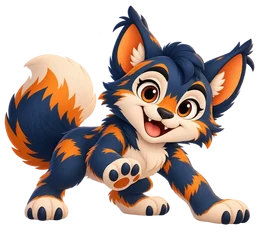
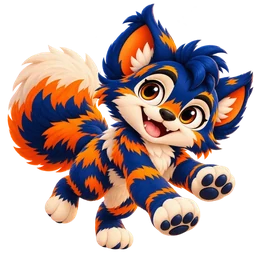
Mascottes: definitieve set van Novi, Varo en Vera (30 WebP's)
- De 30 geüploade PNG's (1254x1254, echte alfa) zijn omgezet naar WebP:
  proportioneel naar 512x512 met voorvermenigvuldigde alfa (geen randen),
  kwaliteit 88, methode 6, alfakwaliteit 100. Elk bestand gecontroleerd
  (VP8X met alfa, 512x512, transparante hoeken, op licht en donker
  vergeleken met de bron). PNG's daarna verwijderd; de vorige Novi-set is
  vervangen.
- Register: alle tien states voor novi, varo en vera (512x512), plus
  PERSONAL_MASCOTS, PersonalMascotCharacter, DEFAULT_PERSONAL_MASCOT (novi)
  en isPersonalMascot. family blijft apart.
- Figma-kopieën (512 byte-identiek, 256 Lanczos) nu voor alle drie.
- test:mascots: compleetheid en alfa voor alle 30, de gidsen, family,
  een ongeldige combinatie als typefout, Figma-kopieën voor alle drie.

Claude-Session: https://claude.ai/code/session_01LAVxxe4dXRHxJ3ioMa5XhR

diff --git a/tests/mascots.test.ts b/tests/mascots.test.ts
@@ -3,11 +3,26 @@ import assert from "node:assert/strict";
 import { existsSync, readdirSync, readFileSync } from "node:fs";
 import path from "node:path";
 import { fileURLToPath } from "node:url";
-import { MASCOT_CHARACTERS, MASCOT_STATES, mascotStates, mascotVariantCount, registeredStaticMascots, staticMascotAsset, staticMascotPath } from "../src/lib/mascots";
+import {
+  DEFAULT_PERSONAL_MASCOT,
+  MASCOT_CHARACTERS,
+  MASCOT_STATES,
+  PERSONAL_MASCOTS,
+  isPersonalMascot,
+  mascotStates,
+  mascotVariantCount,
+  registeredStaticMascots,
+  staticMascotAsset,
+  staticMascotPath,
+} from "../src/lib/mascots";
+
+// Een combinatie die niet bestaat, is al een typefout (tsc controleert deze map ook).
+// @ts-expect-error family heeft geen greeting
+staticMascotPath("family", "greeting");
 
 const PUBLIC = path.join(path.dirname(fileURLToPath(import.meta.url)), "..", "public");
 const STATIC_DIR = path.join(PUBLIC, "mascots", "static");
-const FIGMA_NOVI_DIR = path.join(PUBLIC, "mascots", "figma", "novi");
+const FIGMA_DIR = path.join(PUBLIC, "mascots", "figma");
 
 // Breedte en hoogte uit de WebP-header (VP8X, VP8L of VP8), zodat de
 // geregistreerde afmetingen altijd met het echte bestand overeenkomen.
@@ -50,14 +65,32 @@ test("elk bestand in public/mascots/static volgt de naamconventie", () => {
   }
 });
 
-test("zonder bestand is er geen asset (en dus geen vervanger)", () => {
-  // Varo en Vera hebben in deze fase bewust nog niets.
-  for (const state of MASCOT_STATES) {
-    assert.equal(staticMascotAsset("vera", state), null);
-    assert.equal(staticMascotAsset("varo", state), null);
+test("Novi, Varo en Vera: alle tien states geregistreerd als echte WebP met alfa", () => {
+  for (const character of PERSONAL_MASCOTS) {
+    assert.deepEqual([...mascotStates(character)].sort(), [...MASCOT_STATES].sort());
+    for (const state of MASCOT_STATES) {
+      const asset = staticMascotAsset(character, state);
+      assert.ok(asset, `${character}-${state}: niet geregistreerd`);
+      const file = path.join(PUBLIC, asset.src);
+      const b = readFileSync(file);
+      assert.equal(b.toString("ascii", 12, 16), "VP8X", `${character}-${state}: geen uitgebreide WebP`);
+      assert.ok((b[20] & 0x10) !== 0, `${character}-${state}: WebP zonder alfakanaal`);
+      assert.deepEqual(webpSize(file), { width: 512, height: 512 }, `${character}-${state}: verwacht 512x512`);
+    }
   }
+});
+
+test("persoonlijke gids: alleen Novi, Varo en Vera; family blijft apart", () => {
+  assert.deepEqual([...PERSONAL_MASCOTS], ["novi", "varo", "vera"]);
+  assert.equal(DEFAULT_PERSONAL_MASCOT, "novi");
+  for (const ok of ["novi", "varo", "vera"]) assert.equal(isPersonalMascot(ok), true);
+  for (const wrong of ["family", "NOVI", "", null, undefined, 3, "lisa"]) assert.equal(isPersonalMascot(wrong), false);
+  // family kent geen persoonlijke states, en geen andere dan welcome/celebrate.
+  assert.deepEqual([...mascotStates("family")], ["welcome", "celebrate"]);
+  assert.ok(!(mascotStates("family") as readonly string[]).includes("greeting"));
+  assert.ok(staticMascotAsset("family", "welcome"), "family-welcome blijft geldig");
   assert.equal(staticMascotAsset("family", "celebrate"), null, "family-celebrate is gereserveerd en heeft nog geen asset");
-  assert.equal(staticMascotPath("novi", "greeting"), "/mascots/static/novi/novi-greeting.webp");
+  assert.equal(staticMascotPath("varo", "greeting"), "/mascots/static/varo/varo-greeting.webp");
   assert.equal(staticMascotPath("family", "welcome", 2), "/mascots/static/family/family-welcome-2.webp");
 });
 
@@ -71,23 +104,23 @@ test("varianten: elke variant een eigen bestand, en een teller loopt rond", () =
   assert.equal(staticMascotAsset("novi", "greeting", 2)?.src, "/mascots/static/novi/novi-greeting.webp", "zonder varianten telt het nummer niet");
 });
 
-test("Figma-kopieën van alle Novi-states volgen bron, formaat en verhouding", () => {
-  const expectedFiles = MASCOT_STATES.map((state) => `novi-${state}.webp`).sort();
-  assert.deepEqual(readdirSync(path.join(FIGMA_NOVI_DIR, "512")).sort(), expectedFiles);
-  assert.deepEqual(readdirSync(path.join(FIGMA_NOVI_DIR, "256")).sort(), expectedFiles);
+test("Figma-kopieën van alle states van Novi, Varo en Vera volgen bron, formaat en verhouding", () => {
+  for (const character of PERSONAL_MASCOTS) {
+    const dir = path.join(FIGMA_DIR, character);
+    const expectedFiles = MASCOT_STATES.map((state) => `${character}-${state}.webp`).sort();
+    assert.deepEqual(readdirSync(path.join(dir, "512")).sort(), expectedFiles);
+    assert.deepEqual(readdirSync(path.join(dir, "256")).sort(), expectedFiles);
 
-  for (const state of MASCOT_STATES) {
-    const source = path.join(STATIC_DIR, "novi", `novi-${state}.webp`);
-    const copy512 = path.join(FIGMA_NOVI_DIR, "512", `novi-${state}.webp`);
-    const copy256 = path.join(FIGMA_NOVI_DIR, "256", `novi-${state}.webp`);
-    const sourceSize = webpSize(source);
-    const size512 = webpSize(copy512);
-    const size256 = webpSize(copy256);
+    for (const state of MASCOT_STATES) {
+      const source = path.join(STATIC_DIR, character, `${character}-${state}.webp`);
+      const copy512 = path.join(dir, "512", `${character}-${state}.webp`);
+      const copy256 = path.join(dir, "256", `${character}-${state}.webp`);
+      const sourceSize = webpSize(source);
+      const size256 = webpSize(copy256);
 
-    assert.deepEqual(size512, sourceSize, `${state}: 512-kopie veranderde de canvasmaat`);
-    assert.deepEqual(readFileSync(copy512), readFileSync(source), `${state}: 512-kopie is niet byte-identiek aan productie`);
-    assert.equal(Math.max(size256.width, size256.height), 256, `${state}: 256-export heeft niet de bedoelde langste zijde`);
-    assert.equal(size256.width * sourceSize.height, size256.height * sourceSize.width, `${state}: 256-export veranderde de verhouding`);
-    assert.ok(size256.width <= sourceSize.width && size256.height <= sourceSize.height, `${state}: Figma-export is opgeschaald`);
+      assert.deepEqual(readFileSync(copy512), readFileSync(source), `${character}-${state}: 512-kopie is niet byte-identiek aan productie`);
+      assert.equal(Math.max(size256.width, size256.height), 256, `${character}-${state}: 256-export heeft niet de bedoelde langste zijde`);
+      assert.equal(size256.width * sourceSize.height, size256.height * sourceSize.width, `${character}-${state}: 256-export veranderde de verhouding`);
+    }
   }
 });

diff --git a/src/lib/mascots.ts b/src/lib/mascots.ts
@@ -45,6 +45,22 @@ interface MascotStatesByCharacter {
 /** De Versado-mascottes, plus "family" voor composities van de drie samen. */
 export type MascotCharacter = keyof MascotStatesByCharacter;
 
+/**
+ * De drie personages die een gebruiker als persoonlijke gids kan kiezen
+ * (User.companion). Elk heeft dezelfde tien states. "family" hoort hier
+ * bewust niet bij: de familie verschijnt alleen op gedeelde momenten.
+ */
+export const PERSONAL_MASCOTS = ["novi", "varo", "vera"] as const;
+
+export type PersonalMascotCharacter = (typeof PERSONAL_MASCOTS)[number];
+
+/** Gids voor wie (nog) niets koos: Novi was al de metgezel op de persoonlijke momenten. */
+export const DEFAULT_PERSONAL_MASCOT: PersonalMascotCharacter = "novi";
+
+export function isPersonalMascot(value: unknown): value is PersonalMascotCharacter {
+  return typeof value === "string" && (PERSONAL_MASCOTS as readonly string[]).includes(value);
+}
+
 export type MascotStateOf<C extends MascotCharacter> = MascotStatesByCharacter[C];
 
 /** Elke geldige combinatie van personage en state, als één union. */
@@ -96,24 +112,27 @@ interface RegisteredSize {
 //   greeting: { width: 512, height: 512 },
 // tests/mascots.test.ts controleert dat elk geregistreerd bestand bestaat,
 // dat de afmetingen kloppen en dat elk bestand in de map een geldige naam heeft.
+const SQUARE: RegisteredSize = { width: 512, height: 512 };
+const SQUARE_SET: Record<MascotState, RegisteredSize> = {
+  idle: SQUARE,
+  greeting: SQUARE,
+  thinking: SQUARE,
+  discovery: SQUARE,
+  reading: SQUARE,
+  playing: SQUARE,
+  success: SQUARE,
+  encourage: SQUARE,
+  celebrate: SQUARE,
+  sleep: SQUARE,
+};
+
 const STATIC_ASSETS: { [C in MascotCharacter]: Partial<Record<MascotStateOf<C>, RegisteredSize>> } = {
-  // Alle Novi-poses komen van hetzelfde canvas (1312x1199, verkleind naar
-  // 512 px breed), zodat Novi in elke state even groot is.
-  novi: {
-    idle: { width: 512, height: 468 },
-    greeting: { width: 512, height: 468 },
-    thinking: { width: 512, height: 468 },
-    discovery: { width: 512, height: 468 },
-    reading: { width: 512, height: 468 },
-    playing: { width: 512, height: 468 },
-    success: { width: 512, height: 468 },
-    encourage: { width: 512, height: 468 },
-    celebrate: { width: 512, height: 468 },
-    sleep: { width: 512, height: 468 },
-  },
-  // Losse VARO- en VERA-afbeeldingen komen in een latere fase.
-  vera: {},
-  varo: {},
+  // Novi, Varo en Vera: elk tien poses van hetzelfde vierkante canvas
+  // (bron 1254x1254, proportioneel naar 512x512), zodat een personage in
+  // elke state even groot is en een wissel van state of gids niet verspringt.
+  novi: SQUARE_SET,
+  varo: SQUARE_SET,
+  vera: SQUARE_SET,
   // Drie welkomstcomposities (bron 1536x1024 in references/family/,
   // verkleind naar 1200x800); de homepagina wisselt ze af.
   family: {
